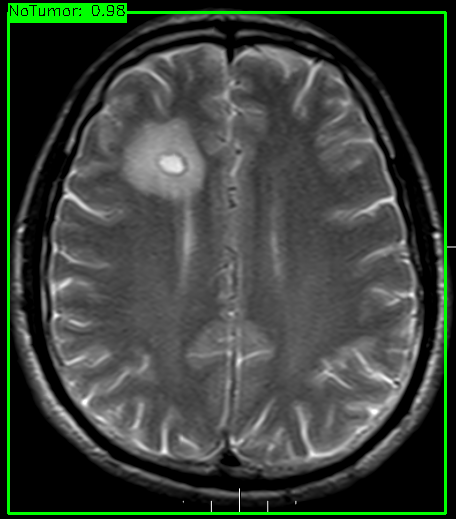
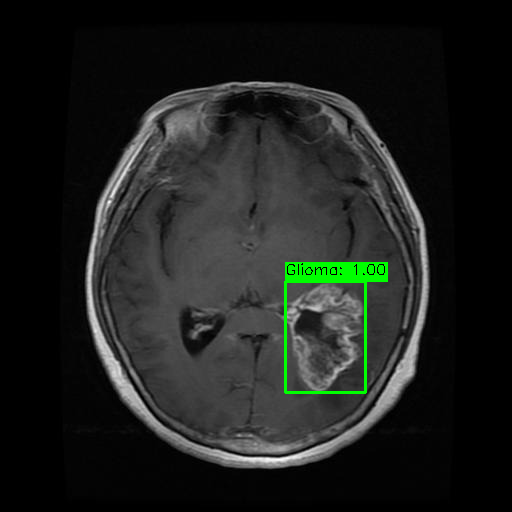
Update My Wrapper

diff --git a/main.py b/main.py
@@ -123,13 +123,23 @@ if __name__ == "__main__":
 
 
 
-    test_dataset = Brain_Tumor_Dataset("data/total_test_list.pkl")
-    test_dataloader = DataLoader(dataset=test_dataset, batch_size=8,
-                    shuffle=False, num_workers=0, pin_memory=False, collate_fn=yolo_collate_fn)
+    # test_dataset = Brain_Tumor_Dataset("data/total_test_list.pkl")
+    # test_dataloader = DataLoader(dataset=test_dataset, batch_size=8,
+    #                 shuffle=False, num_workers=0, pin_memory=False, collate_fn=yolo_collate_fn)
+    import matplotlib.pyplot as plt
+    image_path = "data/raw/Val/Glioma/images/gg (9).jpg"
     model = BrainTumorv2()
-    myWrapper = MyBrainTumorWrapperv4(model, CKPT_PATH="experiments/BrainTumorv2_epic.pth.tar")
-    myWrapper.compile("Sustain")
-    myWrapper.evaluate(test_dataloader, True)
+    myWrapper = MyBrainTumorWrapperv4(model, CKPT_PATH="experiments/BrainTumorv2_legendary.pth.tar")
+    img = myWrapper.img_predict(image_path)
+    img_rgb = cv2.cvtColor(img, cv2.COLOR_BGR2RGB)
+
+    plt.figure(figsize=(6,6))
+    plt.imshow(img_rgb)
+    plt.axis("off")
+    plt.tight_layout()
+    plt.show()
+    # myWrapper.compile("Sustain")
+    # myWrapper.evaluate(test_dataloader, True)
 
     # model = BrainTumorv4()
     # myWrapper = MyBrainTumorWrapperv4(model, CKPT_PATH="experiments/BrainTumorv4_legendary.pth.tar")

diff --git a/src/model/MyBrainTumorWrapperv2.py b/src/model/MyBrainTumorWrapperv2.py
@@ -81,7 +81,7 @@ class MyBrainTumorWrapperv2:
         return self.wrapper.predict(path)
     
     def img_predict(self, path, class_names=class_names):
-        self.wrapper.img_predict(path, class_names)
+        return self.wrapper.img_predict(path, class_names)
 
     def compile(self, mode="Warm-up"):
         self.wrapper.compile(optimizer = self.training_phases[mode]["optimizer"], 

diff --git a/src/model/MyBrainTumorWrapperv4.py b/src/model/MyBrainTumorWrapperv4.py
@@ -82,7 +82,7 @@ class MyBrainTumorWrapperv4:
         return self.wrapper.predict(path)
     
     def img_predict(self, path, class_names=class_names):
-        self.wrapper.img_predict(path, class_names)
+        return self.wrapper.img_predict(path, class_names)
 
     def compile(self, mode="Warm-up"):
         self.wrapper.compile(optimizer = self.training_phases[mode]["optimizer"], 
